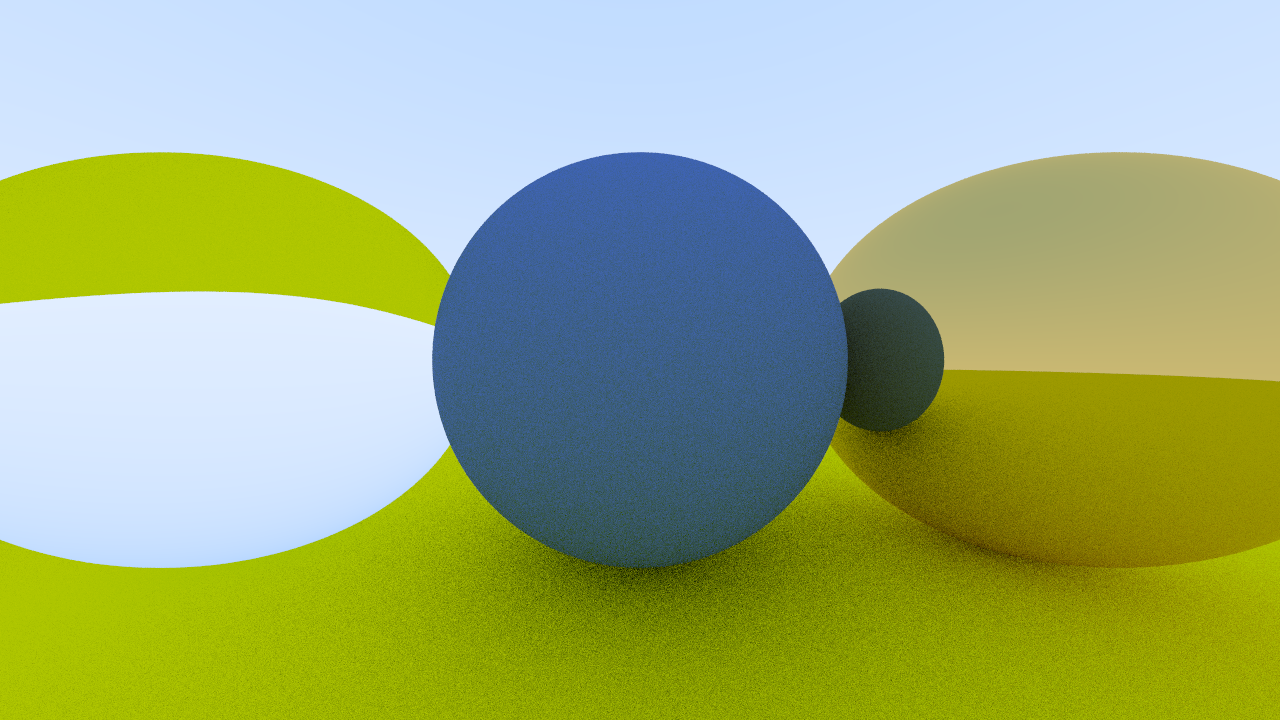
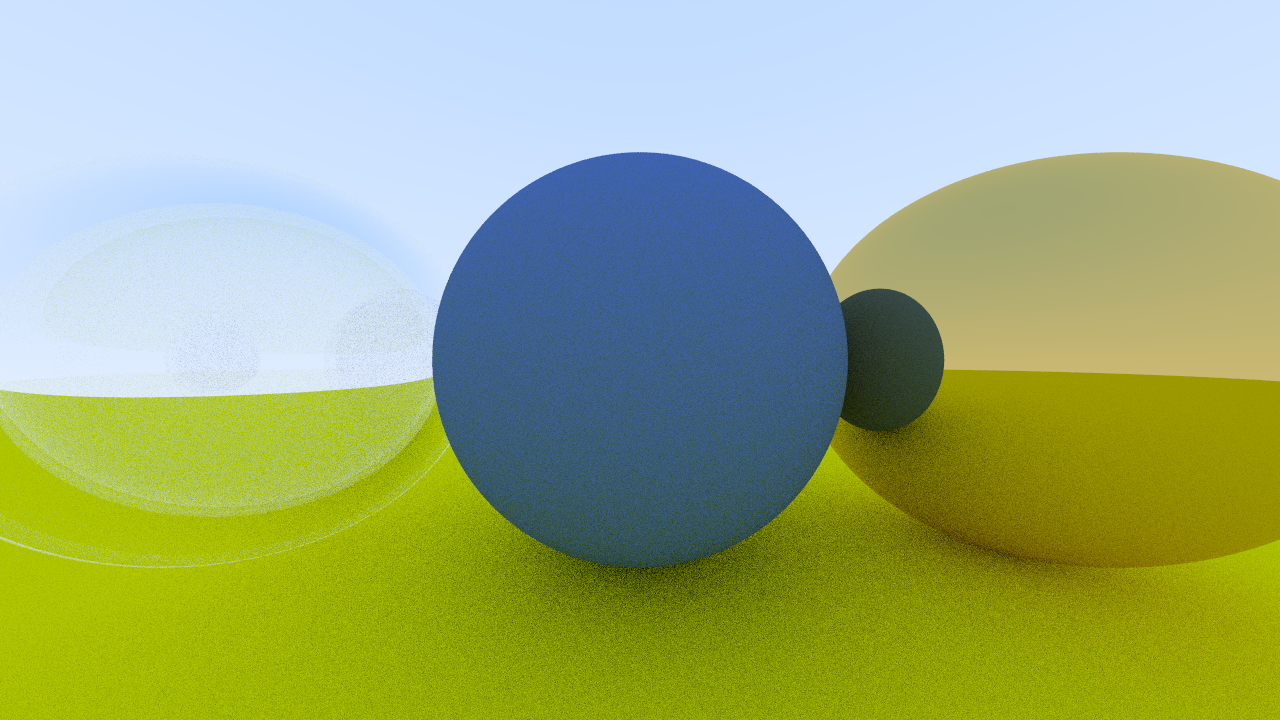
Add Schlick Approximation

Changed region(s): [[0.0, 0.2139, 0.9062, 1.0]]

diff --git a/Material.h b/Material.h
@@ -66,7 +66,7 @@ public:
 		bool cannot_refract = refractionRatio * sinTheta > 1.0;
 		Vec3 outDirection;
 
-		if (cannot_refract) 
+		if (cannot_refract || reflectance(cosTheta, refractionRatio) > Random01())
 			outDirection = reflect(unitRayDir, rec.normal);
 		else 
 			outDirection = refract(unitRayDir, rec.normal, refractionRatio);
@@ -77,4 +77,11 @@ public:
 
 private:
 	double IOR; // index of refraction
+
+	static double reflectance(double cosine, double ref_idx) {
+		// Use Schlick's approximation for reflectance.
+		auto r0 = (1 - ref_idx) / (1 + ref_idx);
+		r0 = r0 * r0;
+		return r0 + (1 - r0) * pow((1 - cosine), 5);
+	}
 };

diff --git a/main.cpp b/main.cpp
@@ -46,6 +46,7 @@ int main()
 	world.add(make_shared<Sphere>(Point3(0.0, -100.5, -1.0), 100.0, materialGround));
 	world.add(make_shared<Sphere>(Point3(0.0, 0.0, -1.0), 0.5, materialCenter));
 	world.add(make_shared<Sphere>(Point3(-1.0, 0.0, -1.0), 0.5, materialLeft));
+	world.add(make_shared<Sphere>(Point3(-1.0, 0.0, -1.0), -0.4, materialLeft));
 	world.add(make_shared<Sphere>(Point3(1.0, 0.0, -1.0), 0.5, materialRight));
 
 	Camera camera(outputTexture);
